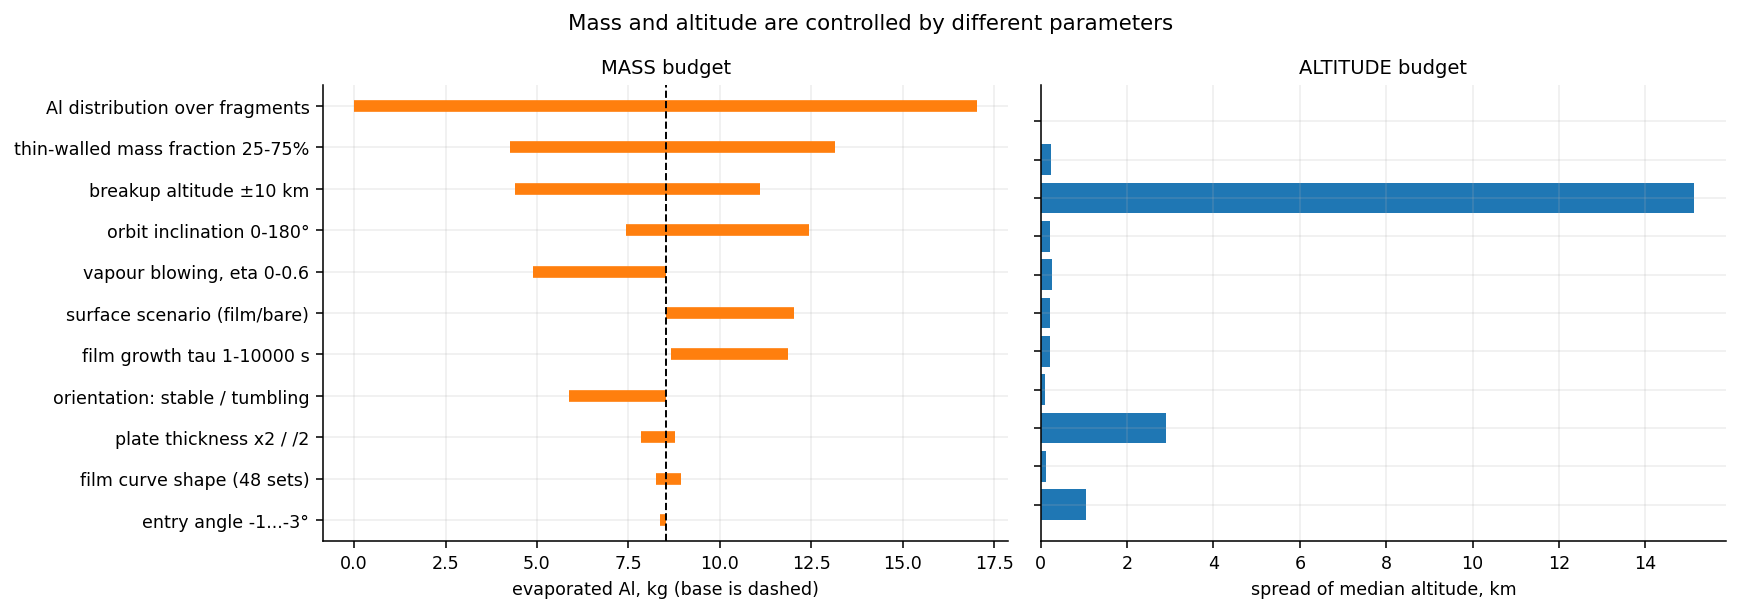
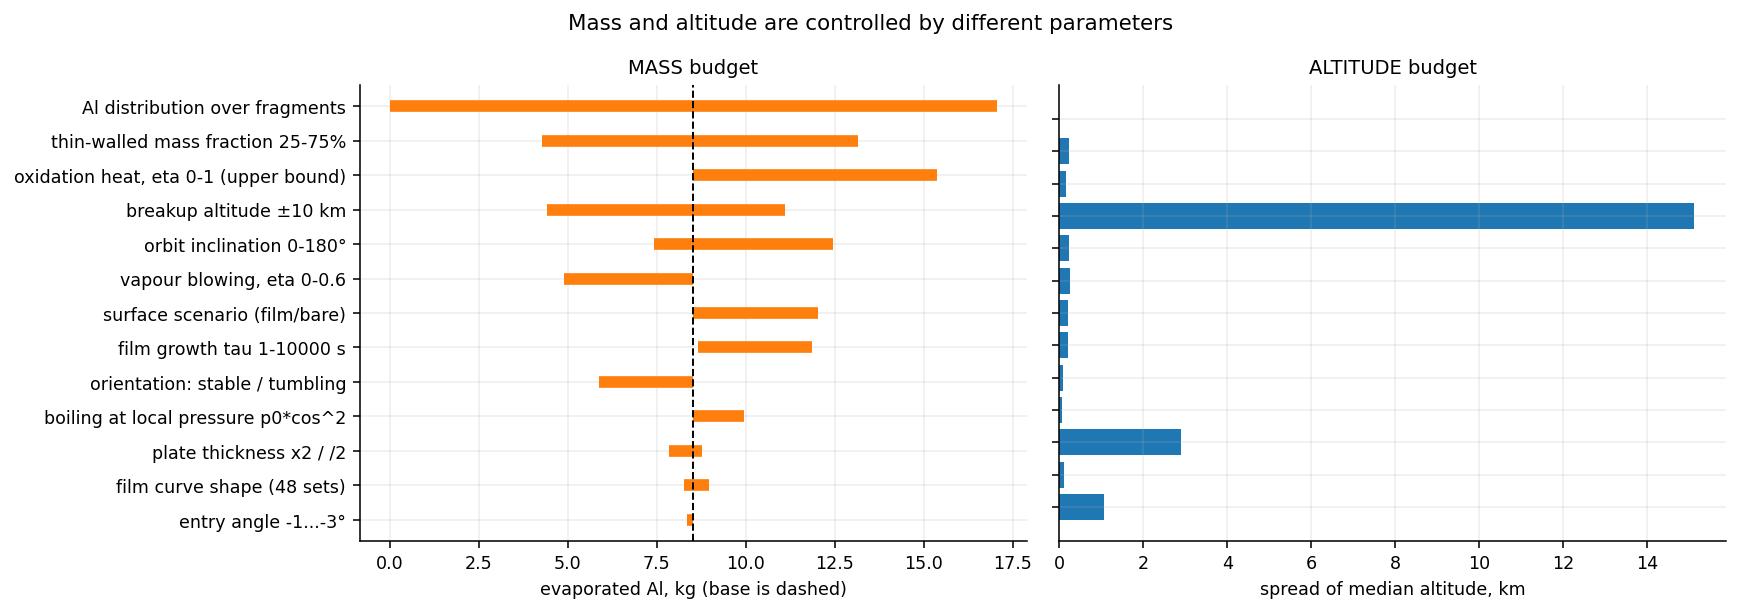
Add heat of oxidation and side-band boiling as sensitivity axes
surface_thermal_model gains two options, both off by default so the
baseline is unchanged bit for bit:

- oxidation_eta: heat of Al oxidation as a fraction of the diffusion-limited
  oxygen supply through the boundary layer (Le = 1, so q_ox/q_hw =
  Y_O*DH_ox/(h_0 - h_w): 0.32 at 7.5 km/s, 0.53 at 6 km/s). Applied to the
  molten part of each band; the Al it would oxidize is reported, not removed.
- boil_pressure="local": each band boils at the Newtonian p0*cos^2(theta)
  instead of the stagnation pressure.

run_step5 adds both to the budget and a section with eta = 0, 0.5, 1 for
both surface scenarios. Upper bound: x1.8 (film), x1.5 (bare melt); local
boiling: +17%; the median moves by less than 0.2 km. The energy-balance
check now also covers both options.

diff --git a/reentry/ablation.py b/reentry/ablation.py
@@ -53,6 +53,34 @@ RHO_ALUMINIUM = 2700.0   # kg/m^3
 # result (verify_step4).
 TAU_FLASH = 0.2          # s
 
+# OXIDATION HEAT: a sensitivity axis, off in the baseline.
+# Oxygen reaches the surface by diffusion through the boundary layer. With a
+# Lewis number of 1 the Reynolds analogy gives one transfer coefficient
+# C = q_cold/h_0 for heat and mass, so the oxygen flux to the wall is at most
+# Y_O * q_cold/h_0. If all of it reacts at the wall, the heat release is
+# DH_OX_PER_KG_O per kilogram of O, i.e. q_ox/q_hot-wall = Y_O*DH/(h_0 - h_w):
+# 0.31 at 7.5 km/s and 0.43 at 6.5 km/s. This is an UPPER BOUND: part of the
+# reaction happens in the gas (the Al vapour burns in the boundary layer and
+# the heat is carried off by the flow), and the oxide skin slows the rest.
+Y_O_AIR = 0.2314                            # mass fraction of O in air (well mixed below ~100 km)
+M_O = 0.015999                              # kg/mol
+DH_OX_PER_KG_O = 1675.7e3 / (3 * M_O)       # 2Al + 3/2 O2 -> Al2O3, -1675.7 kJ/mol (NIST-JANAF): 34.9 MJ/kg O
+AL_PER_KG_O = 2 * M_AL / (3 * M_O)          # 1.124 kg of Al oxidized per kg of O
+
+
+def oxidation_heat_ratio(V, T_wall: float, eta: float = 1.0):
+    """q_ox / q_hot-wall for oxygen supplied at the diffusion limit.
+
+        q_ox / q_hw = eta * Y_O * DH_OX / (h_0 - h_w)
+
+    Independent of altitude and fragment size (both cancel in the transfer
+    coefficient), but it grows as the body slows down because h_0 = V^2/2
+    falls while the heat release per kilogram of oxygen does not.
+    """
+    V = np.asarray(V, dtype=float)
+    dh = np.maximum(0.5 * V ** 2 - CP_AIR_HOT * T_wall, 1e-9)
+    return eta * Y_O_AIR * DH_OX_PER_KG_O / dh
+
 
 @dataclass
 class Aluminium:
@@ -284,6 +312,8 @@ def surface_thermal_model(traj, vehicle, material: Aluminium,
                           correlation: str = "sutton-graves",
                           flux_mode: str = "cos",
                           blowing_eta: float = 0.0,
+                          oxidation_eta: float = 0.0,
+                          boil_pressure: str = "stagnation",
                           n_out: int = 1200) -> dict:
     """Per-band energy balance over the angular flux distribution.
 
@@ -316,6 +346,21 @@ def surface_thermal_model(traj, vehicle, material: Aluminium,
 
     blowing_eta: flux blockage by vapour injection in boiling bands,
       q_vap = (q_in - rad) / (1 + eta*(h_0 - h_w)/L). 0 disables it (baseline).
+
+    oxidation_eta: heat of Al oxidation as a fraction of the diffusion limit
+      (see oxidation_heat_ratio). A band gets
+          q_ox = eta * Y_O * DH_OX * q_cold * cos(theta) / h_0
+      on its MOLTEN part only: solid Al is passivated by its own oxide. 0 (the
+      baseline) switches it off, 1 is the upper bound where every oxygen atom
+      that reaches the wall reacts there. The Al this would consume is
+      reported as m_ox_al but NOT removed from the bands, so the evaporated
+      mass stays an upper bound too.
+
+    boil_pressure: "stagnation" (baseline) boils every band at the
+      stagnation-point pressure p0. "local" uses the Newtonian surface
+      pressure p0*cos^2(theta) of each band, so the side bands boil at a lower
+      temperature; the baseline therefore underestimates evaporation. Only
+      for flux_mode="cos".
 
     Wall thickness: the plate thickness for a plate; for a compact fragment an
     equivalent shell m/(rho*A_wet). Capped by the penetration depth.
@@ -351,6 +396,13 @@ def surface_thermal_model(traj, vehicle, material: Aluminium,
     else:
         raise ValueError(f"flux_mode: {flux_mode!r}")
 
+    if boil_pressure == "stagnation":
+        p_frac = None
+    elif boil_pressure == "local" and flux_mode == "cos":
+        p_frac = flux_frac ** 2                 # Newtonian p0*cos^2(theta)
+    else:
+        raise ValueError(f"boil_pressure: {boil_pressure!r} with flux_mode {flux_mode!r}")
+
     t_eff = min(wall_thickness, depth)          # participating thickness
     lumped_valid = wall_thickness <= depth
     dA = heated_area / n_bands
@@ -362,9 +414,15 @@ def surface_thermal_model(traj, vehicle, material: Aluminium,
     def rhs(t, y):
         h_s = y[:n]
         m_v = y[n:2 * n]
-        T_b = float(mat.T_boil_at(np.exp(float(lnp_spline(t)))))
-        L_v = float(mat.L_vapour_at(T_b))
-        h3 = float(mat.h3(T_b))
+        p0 = np.exp(float(lnp_spline(t)))
+        if p_frac is None:
+            T_b = float(mat.T_boil_at(p0))
+            L_v = float(mat.L_vapour_at(T_b))
+            h3 = float(mat.h3(T_b))
+        else:
+            T_b = mat.T_boil_at(p0 * p_frac)
+            L_v = mat.L_vapour_at(T_b)
+            h3 = mat.h3(T_b)
         T = temperature_from_enthalpy(h_s, mat, T_b)
         V_now = float(V_spline(t))
         q = max(float(q_spline(t)), 0.0) * hot_wall_factor(V_now, T)
@@ -373,6 +431,12 @@ def surface_thermal_model(traj, vehicle, material: Aluminium,
         # A boiled-off band disappears. Smoothed over 1% of the band mass.
         alive = np.clip((m_band - m_v) / (0.01 * m_band), 0.0, 1.0)
         q_in = q * flux_frac * alive
+        if oxidation_eta:
+            # Diffusion-limited oxygen supply; only the molten part reacts.
+            g_melt = np.clip((h_s - h1) / mat.L_fusion, 0.0, 1.0)
+            q_cold = max(float(q_spline(t)), 0.0)
+            q_in = q_in + (oxidation_eta * Y_O_AIR * DH_OX_PER_KG_O * q_cold
+                           / (0.5 * V_now ** 2)) * flux_frac * g_melt * alive
         rad = sides * eps * SIGMA_SB * T ** 4 * alive
         net = q_in - rad
 
@@ -387,7 +451,7 @@ def surface_thermal_model(traj, vehicle, material: Aluminium,
         neg = np.minimum(net, 0.0)
 
         # Blowing: part of the excess flux in a boiling band is blocked by vapour.
-        dh_gas = max(0.5 * V_now ** 2 - CP_AIR_HOT * T_b, 0.0)
+        dh_gas = np.maximum(0.5 * V_now ** 2 - CP_AIR_HOT * T_b, 0.0)
         evap = w * pos / (1.0 + blowing_eta * dh_gas / L_v)
         block = w * pos - evap
 
@@ -430,6 +494,19 @@ def surface_thermal_model(traj, vehicle, material: Aluminium,
 
     m_melt = float(m_melt_band.sum())
     m_vap = float(m_vap_band.sum())
+
+    # Oxidation diagnostics from the saved solution: the oxygen taken up at
+    # the wall, its heat (already inside E_in) and the Al it would oxidize.
+    E_ox = m_ox_al = 0.0
+    if oxidation_eta:
+        ts = sol.t
+        mO_coef = oxidation_eta * Y_O_AIR * np.maximum(q_spline(ts), 0.0) / (0.5 * V_spline(ts) ** 2)
+        g_melt = np.clip((H - h1) / mat.L_fusion, 0.0, 1.0)
+        alive_s = np.clip((m_band - MV) / (0.01 * m_band), 0.0, 1.0)
+        mO_rate = (flux_frac[:, None] * g_melt * alive_s).sum(axis=0) * mO_coef * dA
+        m_O = float(np.trapezoid(mO_rate, ts))
+        E_ox = DH_OX_PER_KG_O * m_O
+        m_ox_al = AL_PER_KG_O * m_O
     return {
         "m_melt": m_melt, "m_vap": m_vap,
         "f_melt": m_melt / vehicle.mass, "f_vap": m_vap / vehicle.mass,
@@ -443,4 +520,5 @@ def surface_thermal_model(traj, vehicle, material: Aluminium,
         "p_stag": p_series, "T_boil": Tb_series,
         "E_in": E_in, "E_rad": E_rad, "E_stored": E_stored, "E_vap": E_vap,
         "E_block": E_block, "energy_residual": residual,
+        "E_ox": E_ox, "m_ox_al": m_ox_al,
     }

diff --git a/run_step5.py b/run_step5.py
@@ -16,7 +16,7 @@ matplotlib.use("Agg")
 import matplotlib.pyplot as plt
 
 from reentry import EntryState, MSISAtmosphere, Vehicle, integrate
-from reentry.ablation import Aluminium, surface_thermal_model
+from reentry.ablation import Aluminium, oxidation_heat_ratio, surface_thermal_model
 from reentry.results import Recorder
 from reentry.emissivity import (LAM_GRID, bare_aluminium_emissivity, eps_film,
                                 fit_film_edge, oxide_film_emissivity,
@@ -84,6 +84,8 @@ SENS_KEY = {
     "thin-walled mass fraction 25-75%": "thin_fraction",
     "entry angle -1...-3°": "entry_angle",
     "orbit inclination 0-180°": "inclination",
+    "oxidation heat, eta 0-1 (upper bound)": "oxidation",
+    "boiling at local pressure p0*cos^2": "side_pressure",
 }
 R = Recorder("step5")
 
@@ -114,10 +116,11 @@ def run_model(frags, mat: Aluminium, al_split=BASE_SPLIT, **model_kw) -> dict:
     (altitude, kg Al); both the histogram and the median are computed from it.
     """
     hs, dms, per = [], [], []
-    melt_al = 0.0
+    melt_al = ox_al = 0.0
     for (name, veh, tr, t_wall), f_al in zip(frags, al_split):
         r = surface_thermal_model(tr, veh, mat, wall_thickness=t_wall, **model_kw)
         melt_al += r["m_melt"] * f_al
+        ox_al += r["m_ox_al"] * f_al
         hs.append(r["h"][:-1] / 1e3)
         dms.append(np.diff(r["m_vap_series"]) * f_al)
         per.append((name, veh, tr, r, f_al))
@@ -125,7 +128,7 @@ def run_model(frags, mat: Aluminium, al_split=BASE_SPLIT, **model_kw) -> dict:
     dm = np.concatenate(dms)
     order = np.argsort(h)
     return dict(h=h[order], dm=dm[order], total=float(dm.sum()),
-                melt=melt_al, per=per)
+                melt=melt_al, ox=ox_al, per=per)
 
 
 def histogram(run: dict) -> np.ndarray:
@@ -310,6 +313,10 @@ def report_sensitivity(frags):
         [run_model(build_fragments(entry=EntryState(gamma_deg=-1.5,
                                                     inclination_deg=i)), BASE)
          for i in (0.0, 180.0)])
+    add("oxidation heat, eta 0-1 (upper bound)",
+        [run_model(frags, BASE, oxidation_eta=e) for e in (0.0, 1.0)])
+    add("boiling at local pressure p0*cos^2",
+        [run_model(frags, BASE, boil_pressure=b) for b in ("stagnation", "local")])
 
     print(f"   {'factor':<38}{'Al, kg: from':>13}{'to':>7}{'ratio':>7}{'median, km':>12}")
     for label, lo, hi, dmed in sorted(rows, key=lambda r: -(r[2] - r[1])):
@@ -329,6 +336,52 @@ def report_sensitivity(frags):
     R["film_shape.eps2000_min"] = lo_shape[1]
     R["film_shape.eps2000_max"] = hi_shape[1]
     return rows, base
+
+
+def report_oxidation(frags):
+    """Two effects left out of the baseline, both of which ADD evaporation."""
+    print("E. HEAT OF OXIDATION AND BOILING ON THE SIDE BANDS")
+    print("   Oxygen reaches the surface by diffusion through the boundary layer.")
+    print("   With Le = 1 its flux is at most Y_O*q_cold/h_0; if all of it reacts at")
+    print("   the wall, q_ox/q_hw = Y_O*DH_ox/(h_0 - h_w), independent of altitude")
+    print("   and size but growing as the body slows down:\n")
+    Tw = Aluminium().T_boil_nominal
+    print(f"   {'V, m/s':>8}{'q_ox/q_hw':>11}   (T_wall = {Tw:.0f} K)")
+    for V in (7500.0, 7000.0, 6500.0, 6000.0):
+        ratio = float(oxidation_heat_ratio(V, Tw))
+        R[f"oxidation.ratio.V{V:.0f}"] = ratio
+        print(f"   {V:>8.0f}{ratio:>11.2f}")
+    print("\n   eta is the fraction of that oxygen that reacts at the wall; only the")
+    print("   molten part of a band oxidizes. eta = 1 is the upper bound.\n")
+    print(f"   {'scenario':<19}{'eta':>5}{'evap. Al, kg':>14}{'x base':>8}"
+          f"{'median, km':>12}{'Al oxidized at wall, kg':>25}")
+    for name, mat in SCENARIOS.items():
+        base = None
+        for eta in (0.0, 0.5, 1.0):
+            run = run_model(frags, mat, oxidation_eta=eta)
+            s = summarize(run)
+            base = base or s["total"]
+            k = f"oxidation.{SCEN_KEY[name]}.eta{round(eta*100):03d}"
+            R[f"{k}.total"] = s["total"]
+            R[f"{k}.factor"] = s["total"] / base
+            R[f"{k}.median"] = s["median"]
+            R[f"{k}.ox_al"] = run["ox"]
+            print(f"   {name:<19}{eta:>5.1f}{s['total']:>14.1f}{s['total']/base:>8.2f}"
+                  f"{s['median']:>12.1f}{run['ox']:>25.1f}")
+    print("\n   The Al oxidized at the wall is a diagnostic: it is not removed from")
+    print("   the fragments, so the evaporated mass stays an upper bound.")
+    print("\n   Boiling at the local Newtonian pressure p0*cos^2(theta) instead of the")
+    print("   stagnation pressure everywhere:")
+    for name, mat in SCENARIOS.items():
+        s0 = summarize(run_model(frags, mat))
+        s = summarize(run_model(frags, mat, boil_pressure="local"))
+        k = f"side_pressure.{SCEN_KEY[name]}"
+        R[f"{k}.total"] = s["total"]
+        R[f"{k}.change_pct"] = 100 * (s["total"] / s0["total"] - 1)
+        R[f"{k}.median"] = s["median"]
+        print(f"   {name:<19}{s0['total']:>6.1f} -> {s['total']:.1f} kg "
+              f"({100*(s['total']/s0['total']-1):+.0f}%), median {s['median']:.1f} km")
+    print("   The baseline (stagnation pressure everywhere) is the conservative side.\n")
 
 
 def report_ferreira(runs):
@@ -550,6 +603,7 @@ if __name__ == "__main__":
     frags, scen, sweep = report_main()
     report_changes(frags)
     rows, base = report_sensitivity(frags)
+    report_oxidation(frags)
     report_ferreira({"frags": frags})
     report_experiment()
     figure_main({"scen": scen}, sweep)

diff --git a/verify_step4.py b/verify_step4.py
@@ -96,7 +96,8 @@ def test_band_convergence():
 
 def test_energy_balance():
     print("4. ENERGY BALANCE OF THE PER-BAND MODEL")
-    print("   Input = re-radiation + storage + evaporation + blocked by blowing.")
+    print("   Input (incl. oxidation heat) = re-radiation + storage + evaporation")
+    print("   + blocked by blowing.")
     print("   The strongest test: it catches any error in the right-hand side.")
     print("   The audit is accumulated INSIDE the same ODE system, not recomputed")
     print("   separately; otherwise the test would check a copy of the code.\n")
@@ -104,19 +105,26 @@ def test_energy_balance():
     for label, veh, tw, kw in (("whole object", INTACT, None, {}),
                                ("1 mm plate", THIN, 1e-3, {}),
                                ("1 mm plate, blowing 0.6", THIN, 1e-3,
-                                dict(blowing_eta=0.6))):
+                                dict(blowing_eta=0.6)),
+                               ("1 mm plate, oxidation 1.0", THIN, 1e-3,
+                                dict(oxidation_eta=1.0)),
+                               ("1 mm plate, local boiling", THIN, 1e-3,
+                                dict(boil_pressure="local"))):
         tr = integrate(veh, ENTRY, ATM)
         for e in (0.05, 0.20):
             r = surface_thermal_model(tr, veh, Aluminium(emissivity=e),
                                       wall_thickness=tw, **kw)
             print(f"   {label}, eps={e:.2f}:")
-            print(f"     input        {r['E_in']:.4e} J")
+            print(f"     input        {r['E_in']:.4e} J"
+                  + (f"  (of which oxidation {r['E_ox']:.4e})" if r["E_ox"] else ""))
             print(f"     radiated     {r['E_rad']:.4e}")
             print(f"     stored       {r['E_stored']:.4e}")
             print(f"     evaporation  {r['E_vap']:.4e}")
             print(f"     blocked      {r['E_block']:.4e}")
             print(f"     residual     {r['energy_residual']:+.2e}")
             ok &= abs(r["energy_residual"]) < 1e-6
+            if kw.get("oxidation_eta"):
+                ok &= r["E_ox"] > 0
             worst = max(abs(r["energy_residual"]), R.data.get("energy_residual_max", 0.0))
             R["energy_residual_max"] = worst
     print(f"\n   -> {'OK' if ok else 'FAIL'}\n")
